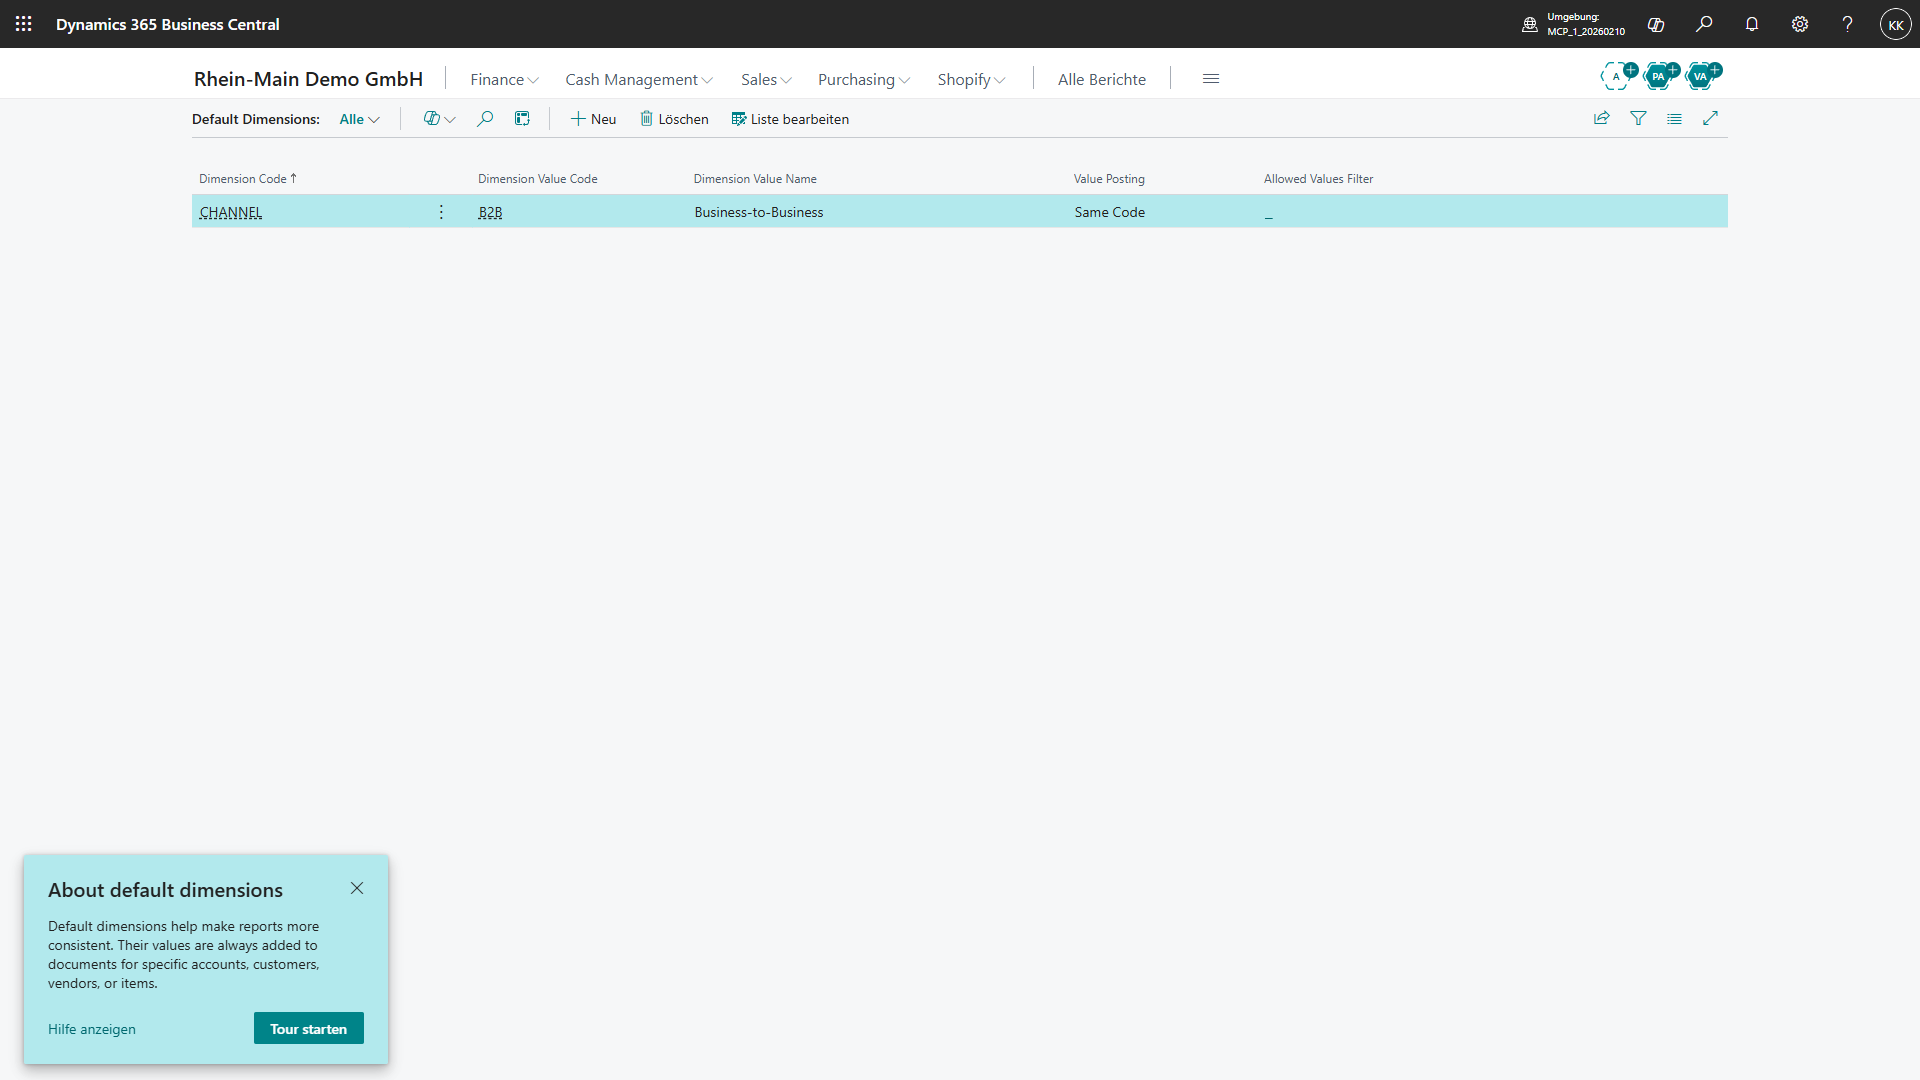
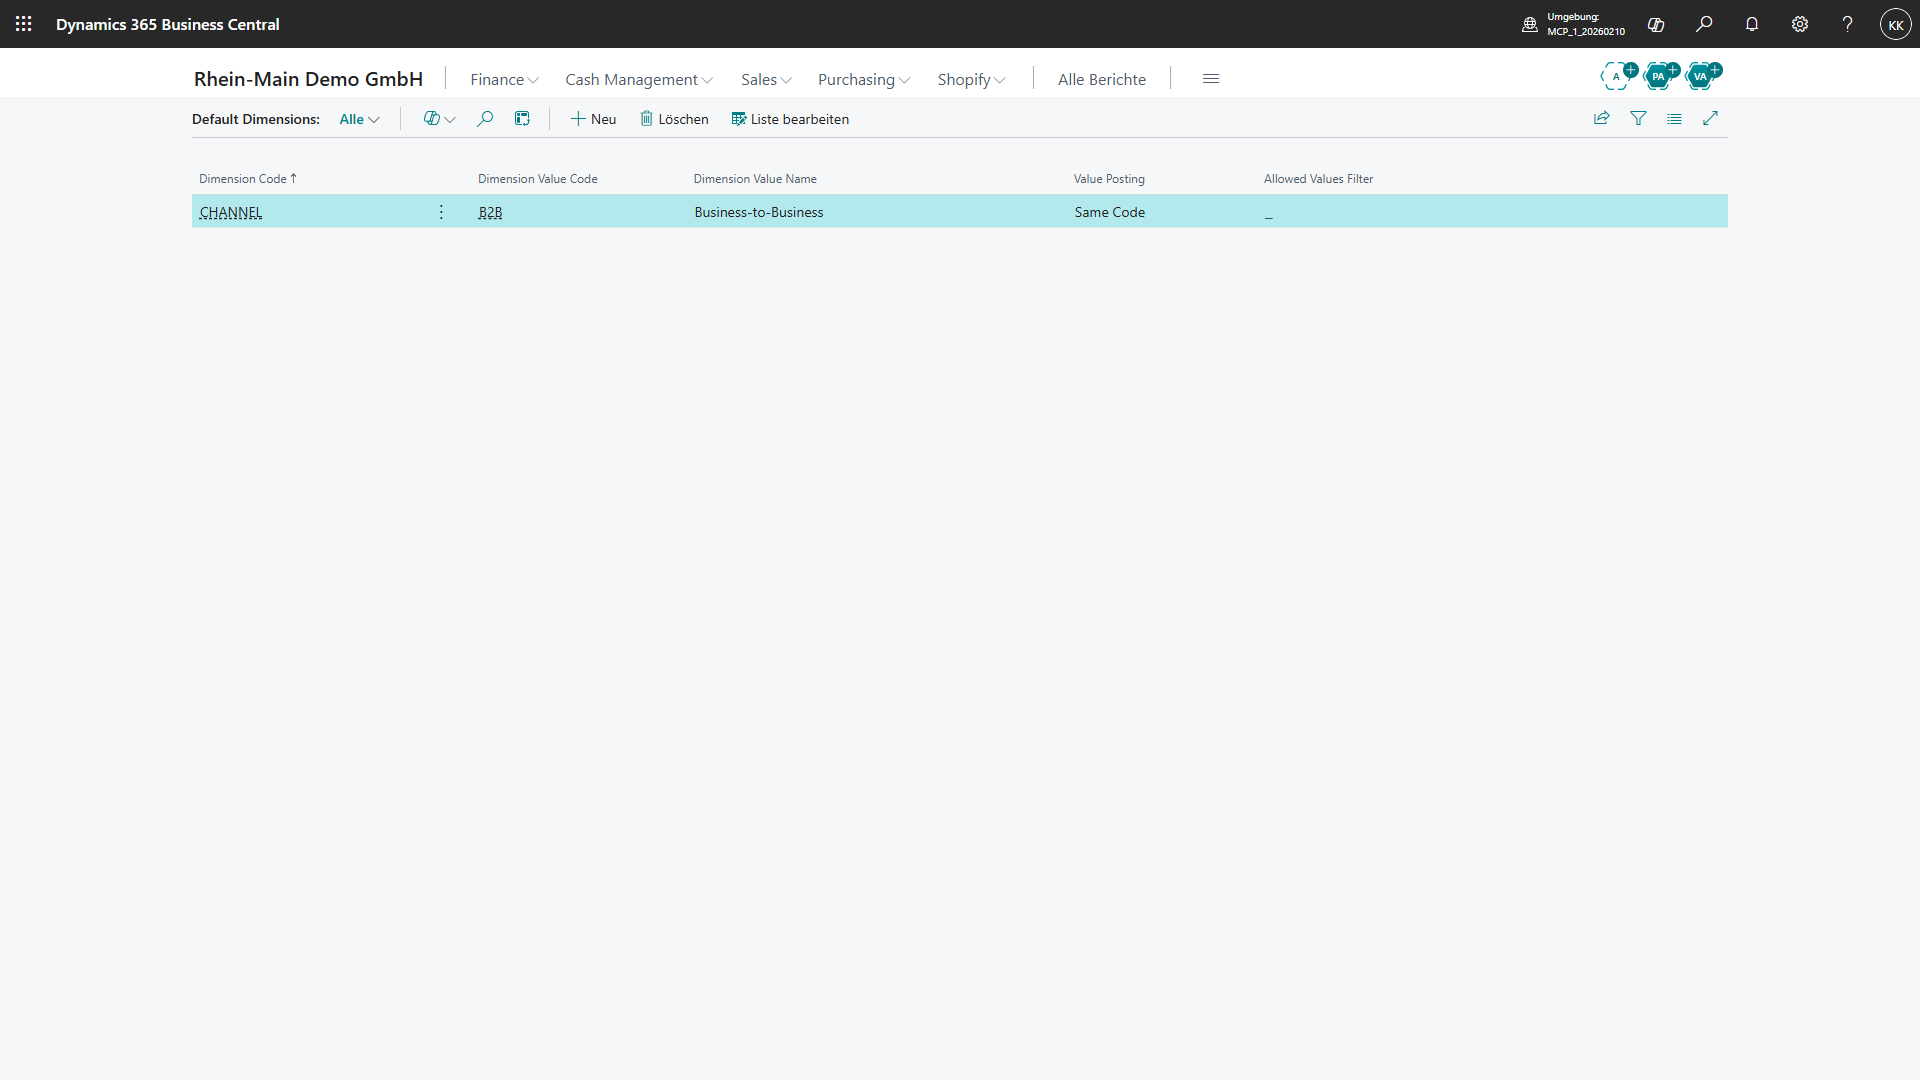
Tighten BC screenshot chrome handling

Changed region(s): [[0.0, 0.7639, 0.2188, 1.0]]

diff --git a/playwright/core/bc-helpers.ts b/playwright/core/bc-helpers.ts
@@ -208,10 +208,106 @@ export async function findFrameText(page: Page, frameText: RegExp) {
 export async function dismissTours(page: Page) {
   for (const frame of page.frames()) {
     const text = await frame.locator('body').innerText({ timeout: 500 }).catch(() => '');
-    if (!/Tour starten|Start tour|About/i.test(text)) {
+    if (!/Tour starten|Start tour|About|teaching tip|Hilfe anzeigen/i.test(text)) {
       continue;
     }
 
-    await frame.getByRole('button', { name: /Schließen|Close|×/i }).click({ timeout: 1000 }).catch(() => undefined);
+    const closeByRole = frame
+      .getByRole('button', { name: /Schließen|Schliessen|Close|Dismiss|Discard|Verwerfen|×|X/i })
+      .last();
+    if (await closeByRole.isVisible({ timeout: 500 }).catch(() => false)) {
+      await closeByRole.click();
+      await page.waitForTimeout(500);
+      continue;
+    }
+
+    const closeByAttributes = frame
+      .locator(
+        [
+          'button[aria-label*="Close" i]',
+          'button[aria-label*="Schließ" i]',
+          'button[aria-label*="Schliess" i]',
+          'button[title*="Close" i]',
+          'button[title*="Schließ" i]',
+          'button[title*="Schliess" i]'
+        ].join(', ')
+      )
+      .last();
+    if (await closeByAttributes.isVisible({ timeout: 500 }).catch(() => false)) {
+      await closeByAttributes.click();
+      await page.waitForTimeout(500);
+      continue;
+    }
+
+    const clicked = await frame
+      .evaluate(() => {
+        const textPattern = /Tour starten|Start tour|About|Hilfe anzeigen/i;
+        const allElements = [...document.querySelectorAll<HTMLElement>('*')];
+        const teachingText = allElements
+          .filter((element) => textPattern.test(element.innerText || ''))
+          .sort((left, right) => {
+            const leftRect = left.getBoundingClientRect();
+            const rightRect = right.getBoundingClientRect();
+            return leftRect.width * leftRect.height - rightRect.width * rightRect.height;
+          })[0];
+        if (!teachingText) return false;
+
+        let container: HTMLElement | null = teachingText;
+        for (let depth = 0; depth < 8 && container; depth += 1) {
+          const rect = container.getBoundingClientRect();
+          if (rect.width >= 200 && rect.width <= 700 && rect.height >= 80 && rect.height <= 500) {
+            const closeTarget = document.elementFromPoint(rect.right - 32, rect.top + 32) as HTMLElement | null;
+            const closeButton = closeTarget?.closest<HTMLElement>('button,[role="button"]') ?? closeTarget;
+            if (closeButton) {
+              closeButton.click();
+              return true;
+            }
+          }
+
+          const buttons = [...container.querySelectorAll<HTMLElement>('button,[role="button"]')].filter((button) => {
+            const rect = button.getBoundingClientRect();
+            return rect.width > 0 && rect.height > 0;
+          });
+          const closeButton =
+            buttons.find((button) => /Schließen|Schliessen|Close|Dismiss|Discard|Verwerfen|×|X/i.test(button.innerText || button.getAttribute('aria-label') || '')) ??
+            buttons.at(-1);
+
+          if (closeButton) {
+            closeButton.click();
+            return true;
+          }
+
+          container = container.parentElement;
+        }
+
+        return false;
+      })
+      .catch(() => false);
+    if (clicked) {
+      await page.waitForTimeout(500);
+    }
   }
+}
+
+export async function hideFactBoxPane(page: Page) {
+  const scopes = [page, ...page.frames()];
+
+  for (const scope of scopes) {
+    const toggle = scope
+      .getByRole('menuitemcheckbox', { name: /Infobox umschalten|Toggle FactBox|FactBox/i })
+      .first();
+    if (!(await toggle.isVisible({ timeout: 500 }).catch(() => false))) {
+      continue;
+    }
+
+    const checked = await toggle.getAttribute('aria-checked').catch(() => null);
+    if (checked !== 'false') {
+      await toggle.click();
+      await page.waitForTimeout(1000);
+    }
+
+    return true;
+  }
+
+  return false;
 }

diff --git a/playwright/projects/fibu-book5/SCREENSHOT-QA.md b/playwright/projects/fibu-book5/SCREENSHOT-QA.md
@@ -21,7 +21,7 @@ Zu jedem automatisiert erzeugten O2C-Screenshot schreibt der Screenshot-Helper e
 
 | Screenshot | Bewertung | Befund | Entscheidung |
 |---|---|---|---|
-| `img/masterdata-007-default-dimensions-item-rm-m100.png` | guter Labor-Kandidat | Page `540` zeigt `Default Dimensions` mit `PRODUCTLINE`, `MACHINE` und `Same Code`. Die Info-Karte `About default dimensions` ist sichtbar, verdeckt aber die Datenzeile nicht. | Als Buchkandidat fuer Standarddimensionen geeignet; final in deutscher Umgebung und moeglichst ohne Info-Karte neu erzeugen. |
+| `img/masterdata-007-default-dimensions-item-rm-m100.png` | guter Labor-Kandidat | Page `540` zeigt `Default Dimensions` mit `PRODUCTLINE`, `MACHINE` und `Same Code`. Die Teaching-Tip-Karte `About default dimensions` wurde gezielt geschlossen. | Als Buchkandidat fuer Standarddimensionen geeignet; final in deutscher Umgebung neu erzeugen. |
 | `img/masterdata-007-default-dimensions-customer-d10000.png` | guter Labor-Kandidat | Page `540` zeigt `CHANNEL`, `B2B`, `Business-to-Business` und `Same Code`. Parent `D10000` ist ueber Filter/Test/Evidence belegt, aber nicht im sichtbaren Seitentext. | Als Laborbild geeignet; Buchtext muss erklaeren, dass Page 540 auf den Debitorenkontext gefiltert wurde. |
 
 ## `UAT-O2C-001` Screenshot Review
@@ -50,6 +50,8 @@ Das aktuelle Zeilenbild beweist Artikel, Beschreibung, Lagerort und Betrag. Es b
 ### QA-O2C-003 Stoerer im Screenshot muessen aktiv entschieden werden
 
 Document Check, Copilot Summary, FactBoxes, Hilfe- und Tourkarten koennen fuer Anfaenger lehrreich sein. Fuer finale Prozessbilder muessen sie aber entweder entfernt oder im Begleittext erklaert werden.
+
+Aktuelle technische Regel: Page-Teaching-Tips werden vor Tabellen-/Feldnachweisen mit `dismissTours()` gezielt geschlossen. Fuer breite Tabellen kann `hideFactBoxPane()` verwendet werden, wenn die rechte Infobox/FactBox den relevanten Spaltenraum nimmt.
 
 ### QA-O2C-004 Evidence-Text enthaelt UI-Resize-/Skriptartefakte
 

diff --git a/playwright/LEARNINGS.md b/playwright/LEARNINGS.md
@@ -34,7 +34,8 @@ Das Repository soll auch von anderen Codex-Accounts übernommen werden können. 
 | Gemischte Sprache | Oberfläche ist teilweise Deutsch, teilweise Englisch. | Tests technisch bilingual; finale Buchscreenshots später in deutschem Lauf ersetzen. |
 | BC läuft in Frames | Viele sichtbare Inhalte liegen nicht im äußeren Browser-DOM. | `page.frames()` durchsuchen und im passenden Frame klicken/lesen. |
 | Tell-Me-Trefferlisten | `Enter` oder der erste Treffer öffnet oft nicht die fachlich gewünschte Seite. | Kein Blindklick auf den ersten Treffer. Trefferindex oder Zielseite bewusst festlegen; Mehrdeutigkeit als Fundstelle behandeln. |
-| Einführungs-Popups | BC zeigt „About ...“ oder Tour-Popups, die Screenshots stören. | Für Probeläufe zulassen; für finale Buchbilder gezielt schließen oder Umgebung vorbereiten. |
+| Einführungs-Popups | BC zeigt „About ...“ oder Tour-Popups, die Screenshots stören. Der Schließen-Button kann je nach UI-Sprache auch `Verwerfen` heißen. | Für Probeläufe zulassen; für finale Buchbilder gezielt mit `dismissTours()` schließen oder Umgebung vorbereiten. |
+| Rechte Infobox/FactBox | FactBoxes sind fachlich nützlich, nehmen bei Tabellenbildern aber Spaltenbreite weg. | Vor breiten Listen-/Zeilenbildern bewusst entscheiden: sichtbar lassen und erklären oder mit `hideFactBoxPane()` einklappen. |
 | QuickInfo-Overlays | Klick auf Feldhilfe/Toggle kann eine QuickInfo öffnen und Buttons blockieren. | Bei bekannten Dialogen gezielte Koordinate oder `force` nutzen. |
 | ARIA-Rollen | Schalter/Felder sind nicht immer zuverlässig als `role` auffindbar. | Rollen bevorzugen, aber BC-spezifische Fallbacks akzeptieren. |
 | Listen-Neuanlage | Nach `Neu` bleiben Hauptliste und `Neu - ...`-Form gleichzeitig sichtbar. Unspezifische Locators treffen schnell die falsche Liste. | Bei Neuanlagen auf `form "Neu - <Seite>"` scopen, dann Felder erfassen und anschließend gegen Seitentext/Evidence prüfen. |

diff --git a/playwright/projects/fibu-book5/WORKAROUNDS-AND-ERRORS.md b/playwright/projects/fibu-book5/WORKAROUNDS-AND-ERRORS.md
@@ -107,6 +107,17 @@ Jeder Eintrag muss außerdem gegen die betroffene Buchstelle geprüft werden. We
 | Buchwirkung | Finale Buchscreenshots dürfen nicht durch ungezielte Tastaturbereinigung entstehen. Hilfekarten werden entweder bewusst als Lernbefund gezeigt oder gezielt über ihre eigene Schließen-Aktion entfernt. |
 | Künftige Regel | Keine globalen Tastatur-Workarounds ohne anschließende fachliche Prüfung. Nach jeder UI-Bereinigung muss der Test erneut Auftrag, Debitor oder Zeile im aktuellen Kontext nachweisen. |
 
+## WK-BC-O2C-008A Teaching Tips gezielt schliessen
+
+| Feld | Wert |
+|---|---|
+| Problem | Page `540` zeigte beim Standarddimensionsnachweis unten links die Karte `About default dimensions`; dadurch war der Screenshot technisch gueltig, aber als Buchbild unruhig. |
+| Sichtbarer Beleg | Vorheriger Labor-Screenshot `img/masterdata-007-default-dimensions-item-rm-m100.png`; aktueller Lauf `npm run fibu:masterdata:default-dimensions` erzeugt die beiden Page-540-Bilder ohne Karte. |
+| Ursache | Microsoft beschreibt solche Karten als Teaching Tips und Tours. In der aktuellen gemischten UI war der Schliessen-Button als `Verwerfen` beschriftet, nicht als `Close`. |
+| Loesung | `dismissTours()` erkennt jetzt `Schliessen`, `Close`, `Dismiss`, `Discard` und `Verwerfen`. Der Helfer schliesst die Karte ueber ihre eigene Aktion statt global `Escape` zu druecken. |
+| Buchwirkung | Teaching Tips duerfen als Lernbefund erklaert werden. Fuer Feld- und Tabellenbelege sollen sie geschlossen werden, wenn sie keine fachliche Aussage tragen. |
+| Kuenftige Regel | Keine blinde globale Ausschaltung der Onboarding-Hilfe setzen. Fuer reproduzierbare Buchscreenshots Teaching Tips gezielt pro Lauf schliessen und danach den fachlichen Seitentext erneut pruefen. |
+
 ## WK-BC-O2C-009 CRONUS-Labor ist nicht automatisch deutscher Steuerfit
 
 | Feld | Wert |

diff --git a/FiBu_Buch_BC_Standardprozesse_DE_Master_Blueprint.md b/FiBu_Buch_BC_Standardprozesse_DE_Master_Blueprint.md
@@ -980,7 +980,7 @@ Der Debitor `D10000` wird damit dem Vertriebskanal Business-to-Business zugeordn
 
 Prüfhinweis:
 
-Der aktuelle Nachweis besteht aus API-Evidence und UI-Laborbildern des Dialogs `Default Dimensions`. Die Bilder sind fachlich brauchbare Kandidaten, aber noch keine finalen deutschen Buchbilder: Die Umgebung ist CRONUS-basiert, die Oberfläche ist gemischt Deutsch/Englisch, und die Info-Karte `About default dimensions` ist sichtbar. Für die finale Fassung wird derselbe Nachweis später in der deutschen Umgebung ersetzt.
+Der aktuelle Nachweis besteht aus API-Evidence und UI-Laborbildern des Dialogs `Default Dimensions`. Die Bilder sind fachlich brauchbare Kandidaten, aber noch keine finalen deutschen Buchbilder: Die Umgebung ist CRONUS-basiert und die Oberfläche ist gemischt Deutsch/Englisch. Die zuvor sichtbare Teaching-Tip-Karte `About default dimensions` wird im Playwright-Lauf gezielt geschlossen. Für die finale Fassung wird derselbe Nachweis später in der deutschen Umgebung ersetzt.
 
 Wichtig für Anfänger: Eine Standarddimension am Artikel oder Debitor ist nur die Vorbereitung. Sie beweist noch nicht automatisch, dass jede erwartete Dimension im konkreten Verkaufsauftrag angekommen ist. Der O2C-Lauf `UAT-O2C-001` weist `CHANNEL = B2B` und `PRODUCTLINE = MACHINE` inzwischen im Zeilen-Dimensionsdialog nach. Der geprüfte Klickpfad lautet `Line` -> `Related Information` -> `Dimensions`. Für die finale Anleitung muss derselbe Nachweis später in der deutschen Umgebung neu fotografiert und nach dem Buchen zusätzlich in Sachposten oder Reporting wiedergefunden werden.
 15. UAT-Basisszenarien buchen.

diff --git a/playwright/projects/fibu-book5/CURRENT-STATE.md b/playwright/projects/fibu-book5/CURRENT-STATE.md
@@ -1,6 +1,6 @@
 # Current State fuer FiBu Buch 5
 
-Stand: 07.06.2026
+Stand: 08.06.2026
 
 Diese Datei ist die erste Orientierung fuer neue Codex-Agents. Sie fasst zusammen, wo das Projekt steht, was entschieden ist, was nicht erneut diskutiert werden muss und was als naechster sinnvoller Schritt gilt.
 
@@ -69,6 +69,8 @@ Definition: Eine Anleitung ist erst abgesichert, wenn der Klickpfad in BC funkti
 - Neue Agents arbeiten ausschliesslich mit Codex. Projektdateien enthalten keine Bezuege zu anderen Agentenplattformen.
 - Das Projekt muss auf Windows und macOS laufen.
 - Alle Textdateien sind UTF-8; pruefen mit `npm run check:encoding`.
+- Teaching Tips/Tourkarten werden fuer Tabellen- und Feldnachweise gezielt mit `dismissTours()` geschlossen; kein globales `Escape` verwenden.
+- Fuer breite Tabellenbilder kann die rechte Infobox/FactBox mit `hideFactBoxPane()` eingeklappt werden, wenn sie relevante Spalten verdraengt.
 
 ## Aktueller Handover-Stand
 
@@ -88,6 +90,7 @@ Der aktuelle Handover-Stand enthaelt:
 - Windows-/macOS-Hinweise fuer neue Agents
 - explizite Commit-/Push-Regel: jeder Push muss eine arbeitsfaehige Uebergabe garantieren
 - explizite Projektmission: Buch lernen, Business Central lernen, Playwright lernen und Buch erweitern
+- allgemeine Screenshot-Helfer fuer Teaching Tips und FactBox/Infobox
 
 Der vorherige fachliche O2C-Nachweis ist:
 

diff --git a/playwright/projects/fibu-book5/MASTERDATA-BUILD-PLAN.md b/playwright/projects/fibu-book5/MASTERDATA-BUILD-PLAN.md
@@ -215,7 +215,7 @@ Status nach Testlauf:
 - Der Dialog `Default Dimensions` ist jetzt als UI-Laborbild per Page `540` nachgewiesen:
   - `img/masterdata-007-default-dimensions-item-rm-m100.png`
   - `img/masterdata-007-default-dimensions-customer-d10000.png`
-- Harte Grenze: Die Bilder sind Kandidaten, aber noch keine finalen deutschen Buchbilder. Die Umgebung ist gemischt Deutsch/Englisch und zeigt die Info-Karte `About default dimensions`.
+- Harte Grenze: Die Bilder sind Kandidaten, aber noch keine finalen deutschen Buchbilder. Die Umgebung ist gemischt Deutsch/Englisch. Die Teaching-Tip-Karte `About default dimensions` wird vor dem Screenshot gezielt geschlossen.
 
 ### `UAT-O2C-001`: erster Verkaufsauftrag als Lern- und Laborlauf
 
